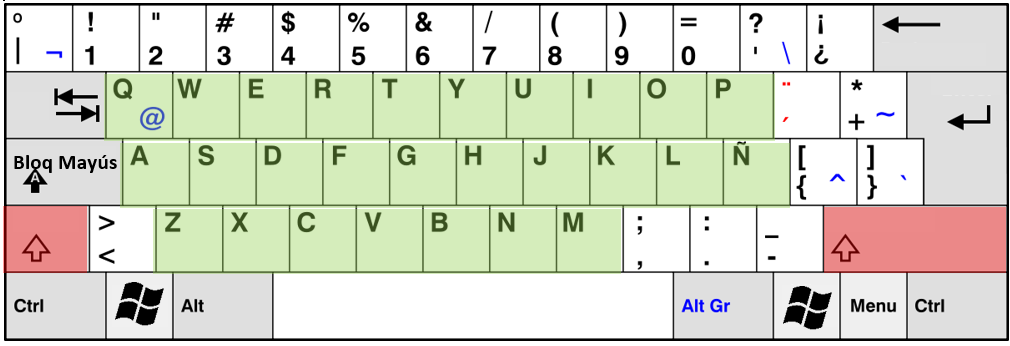
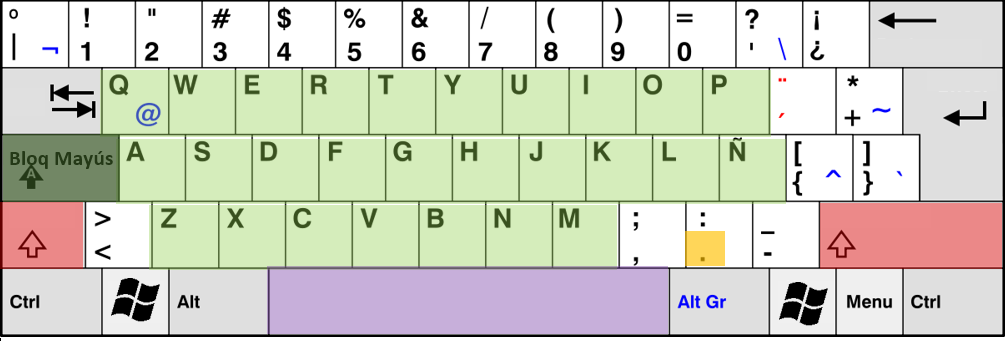
updating typing tutorial

Changed region(s): [[0.0, 0.0, 1.0, 0.9971]]

diff --git a/Typing tutorial/main.js b/Typing tutorial/main.js
@@ -1,22 +1,38 @@
 var i = 0;
-var txt = 'ahora practica  ';
-var speed = 500; 
-var level = "Mayúsculas"
+var txt = 'ahora practica ';
+var speed = 500;
+var level = "Mayúsculas" //changing this variable name changes elements displayed
 
-function main () {
-document.getElementById("header").innerHTML += level;
-document.getElementById("pic").src = level+".PNG"
-switch(level){
-    case "Minúsculas":
-        txt = "ahora practica   ";
-        document.getElementById("tutorial").innerHTML = "Encuentras la letra que deseas escribir en el teclado y oprimir el botón." 
-        break;
-    case "Mayúsculas":
-        txt = "AHORA PRACTICA    ";
-        document.getElementById("tutorial").innerHTML = 'Encuentras <mark class = "red"> el botón resaltado en rojo </mark> y también <mark class = "green"> la letra </mark> que deseas escribir en el teclado. Primero oprimes <mark class = "red"> el botón rojo </mark> y manten presionado al oprimir <mark class = "green"> la letra </mark> que quieres.' 
-        break
-}
-typeWriter();
+function main() {
+  document.getElementById("header").innerHTML += level;
+  switch (level) {
+    case "Minúsculas": //lowercase (level 1)
+      document.getElementById("tutorial").innerHTML = "Encuentras la letra que deseas escribir en el teclado y oprimir el botón."
+      document.getElementById("pic").src = level + ".PNG"
+      txt = "ahora practica  ";
+      document.getElementById("intro").innerHTML = "El teclado esta formado por varios botones los cuales al presionarlos individualmente o al mismo tiempo generan una letra o símbolo. Como puedes observar en el teclado se encuentran las letras del alfabeto, así que cuando desees escribir una letra en el monitor de la computadora solo debes de presionarla, ten en cuenta que la letra será minúscula."
+      break;
+    case "Mayúsculas": //uppercase (level 2)
+      document.getElementById("pic").src = level + ".PNG"
+      txt = "AHORA PRACTICA   ";
+      document.getElementById("tutorial").innerHTML = 'Encuentras <mark class = "red"> el botón resaltado en rojo </mark>(uno de los dos) y también <mark class = "green"> la letra </mark> que deseas escribir en el teclado. Primero oprimes <mark class = "red"> el botón rojo </mark> y manten presionado al oprimir <mark class = "green"> la letra </mark> que quieres.'
+      document.getElementById("tutorial2").innerHTML = 'Para escribir oraciones, necesitas espacios para separar palabras. Para hacer esto en un teclado necesitas apretar <mark class = "purple"> la tecla de espacio </mark>.'
+      document.getElementById("intro").innerHTML = 'Si deseas escribir una letra mayúscula debes presionar <mark class = "red"> la tecla (Shift) con el símbolo de la flecha que apunta hacia arriba,</mark> dejarla presionada y después oprime <mark class = green> la tecla de la letra que deseas </mark> en mayúscula. Si necesitas escribir varias letras en mayúsculas también existe <mark class = darkGreen> la tecla “Bloq. Mayús.” </mark> Después de presionar este botón una vez, todas las letras saldrán en mayúsculas hasta que lo desactives (presionarlo una segunda vez). <br> <br> Normalmente las oraciones se terminan con un punto, para esto existe <mark class = "orange"> la siguiente tecla,</mark> si la presionas aparecerá un punto.'
+      break;
+    case "Caracteres Especiales": //special characters (level 3)
+      txt = "¡Ahora Practica!  "
+      document.getElementById("intro").innerHTML = "Como puedes observar el teclado tiene diferentes símbolos aparte de las letras y el punto. ¡Vamos a aprender a escribir estas letras! ¿Recuerdas la tecla de la flecha hacia arriba, si? ¡Genial!"
+      document.getElementById("message").innerHTML = "";
+      document.getElementById("pic").src = "specialNoShift.PNG";
+      document.getElementById("tutorial").innerHTML = '<mark class = "purple"> Estos caracteres que estan abajo en la tecla </mark>son muy similares a letras minúsculas. Solamente necesitas oprimir la tecla. '
+      document.getElementById("pic2").src = "shift.PNG";
+      document.getElementById("tutorial2").innerHTML = 'Los caracteres que están <mark class = "green"> arriba en las teclas </mark>funcionan muy similares a letras mayúsculas. Usa <mark class = "red"> la tecla de la flecha hacia arriba </mark>mientras oprimes tu tecla.';
+      document.getElementById("pic3").src = "altGR.PNG";
+      document.getElementById("tutorial3").innerHTML = 'Por último, los caracteres de la derecha se obtienen al mantener presionada la tecla <mark class = "blue"> Alt Gr </mark>junto con la tecla del símbolo';
+      document.getElementById("pic4").src = "accents.PNG";
+      document.getElementById("tutorial4").innerHTML = 'Para acentuar tus palabras presiona <mark class = "red"> la tecla de acentuación </mark> (junto a la tecla P) seguido de <mark class = "green"> la tecla a acentuar </mark>. Recuerda no presionarlas al mismo tiempo';
+  }
+  typeWriter();
 }
 function typeWriter() {
   if (i < txt.length) {
@@ -24,8 +40,8 @@ function typeWriter() {
     i++;
     setTimeout(typeWriter, speed);
   }
-  if (i== txt.length){
-    document.getElementById("output").innerHTML = "";  
-    i=0;
+  if (i == txt.length) {
+    document.getElementById("output").innerHTML = "";
+    i = 0;
   }
 }

diff --git a/Typing tutorial/index.html b/Typing tutorial/index.html
@@ -5,10 +5,19 @@
 <h1 id="header">Aprender a Teclear: </h1>
 
 <body onload="main()">
-    <h4>Las letras <mark class="green">resaltadas</mark> son todo lo que necesitas.</h4>
+    <style> body{background-color:rgb(213, 239, 198);background-image: url("pawPrint.png"); background-size: 12.5%; margin-left: 50px;} </style>
+    <h4 id = "intro"> </h4>
+    <h4 id = "message">Las letras <mark class="green">resaltadas</mark> son todo lo que necesitas para este parte.</h4>
     <img id="pic" src="Minúsculas.PNG" alt="keyboard with lowercase keys highlighted" class="center">
-    <h3 id="tutorial"> Encuentras la letra que deseas escribir en el teclado y oprimir el botón. </h3>
-    <h4> Para teclear rápido, usa <mark class="green">los dos manos y todos los dedos</mark>.</h4>
+    <h3 id="tutorial"> </h3>    
+    <img id = "pic2"> 
+    <h3 id="tutorial2"> </h3>
+    <img id = "pic3"> 
+    <h3 id="tutorial3"> </h3>
+    <img id = "pic4"> 
+    <h3 id="tutorial4"> </h3>
+    <h4> Para teclear rápido, usa <mark class="green">las dos manos y todos los dedos</mark>.</h4>
     <h4 id="output" class="type"></h4>
+    <button type="button">¡Aprieta aquí!</button>
 
 </body>

diff --git a/Typing tutorial/style.css b/Typing tutorial/style.css
@@ -11,12 +11,18 @@ h1{
     text-align: center;
     font-size: 25pt;
 }
+h4{
+    padding-left: 5%;
+    padding-right: 5%;
+}
 body{
-    position: fixed;
+    position: relative;
     text-align: center;
-    right: 15%;
-    left: 15%;
+    padding-left: 25pt;
+    padding-right: 25pt;
     font-size: 13pt;
+    background-color: rgb(213,239,198);
+    font-family: 'Trebuchet MS', 'Lucida Sans Unicode', 'Lucida Grande', 'Lucida Sans', Arial, sans-serif;
 }
 
 .type{
@@ -31,4 +37,39 @@ body{
 .red{
     background-color: rgb(245, 126, 126);
     color: black;
+}
+
+.darkGreen{
+    background-color: rgb(96, 131, 106);
+    color: black;
+}
+
+.orange{
+    background-color: rgb(255, 192, 0);
+    color: black;
+}
+
+.purple{
+    background-color: rgb(172, 124, 172);
+    color: black;
+}
+
+.blue{
+    background-color: rgba(0, 0, 255, 0.308);
+    color: black;
+}
+
+#intro{
+    font-size: 12pt;
+}
+
+button{
+    background-color: rgb(70, 128, 9);
+    border: none;
+    color: white;
+    padding: 15px 32px;
+    text-align: center;
+    text-decoration: none;
+    display: inline-block;
+    font-size: 25px;
 }
